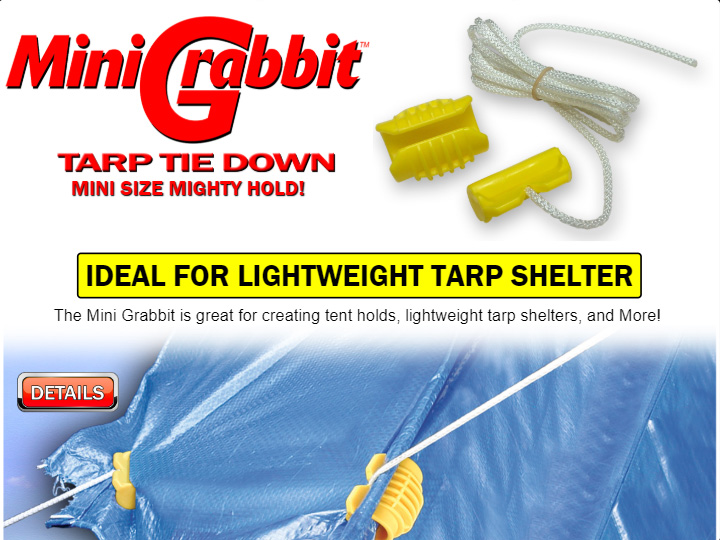
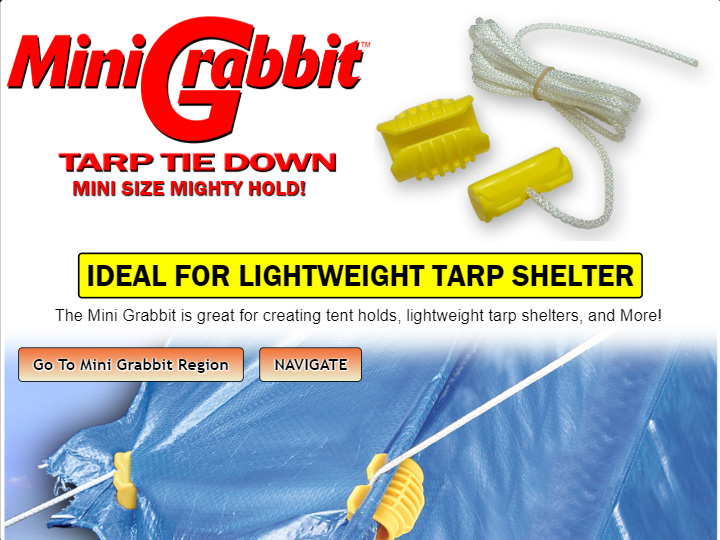
User content add/edit and add links to temporary 'not complete' page all for view02.

diff --git a/components/components00_03/tmpl_02/viewTmpl_02.html b/components/components00_03/tmpl_02/viewTmpl_02.html
@@ -1,26 +1,4 @@
-<style>
-.textStyle1
-{
-font-family: 'Franklin Gothic Medium', 'Franklin Gothic', 'ITC Franklin Gothic', Arial, sans-serif;   
-color:red;
-text-align:center; 
-}
-
-.fontFam
-{
-font-family: 'Franklin Gothic Medium', 'Franklin Gothic', 'ITC Franklin Gothic', Arial, sans-serif;     
-}
-
-.imageStyle1:hover
-{
-background-color:black; 
-border-radius:10px;
-box-shadow: 1px 1px 15px #CCEDF2, 1px -1px 15px #CCEDF2, -1px 1px 15px #CCEDF2, -1px -1px 15px #CCEDF2,
-            1px 1px 25px #EAE2BB, 1px -1px 25px #EAE2BB, -1px 1px 25px #EAE2BB, -1px -1px 25px #EAE2BB,
-            1px 1px 25px #EAE2BB, 1px -1px 25px #EAE2BB, -1px 1px 25px #EAE2BB, -1px -1px 25px #EAE2BB;
-}
-
-</style>
+<link rel="stylesheet" type="text/css" href="css/vn-templateStyle1.css">
 
 <div style="text-align:center;">    
  
@@ -79,29 +57,71 @@ box-shadow: 1px 1px 15px #CCEDF2, 1px -1px 15px #CCEDF2, -1px 1px 15px #CCEDF2, 
     </div>
 
 <!-- Response Section 4 ************************************************************************************************************************************************-->
-    <div style="position:relative;">
-        
-        <div style="position:absolute; 
-                    {{$ctrl.rs4positiontop}};   /* AR_75px_20px */
-                    /*top:20px; */
-                    left:2%; 
-                    z-index:2
-                    ">
-            <a href="https://www.tarptiedown.com/index-old.html"> 
-                <img src="https://tarptiedown.com/resources/ttd-vn-button3-300x120.png"
-                     alt="button" 
-                     title="EZ Grabbit applications, specs, prices, videos, etc."
-                     class="imageStyle1"
-                     style="{{$ctrl.rs4width1}};     /* AR_150_70 */
-                            ">  
-            </a>
-               
-        </div>
+    <div style="position:relative;
+                {{$ctrl.rs4fontsize1}};
+               ">
         
         <img    src="components/components00_03/tmpl_02/ttd-vn-mg-arc-1200x935-featherd-top.jpg" 
                 alt="EZ Grabbit Tarp Tie Down Presentation" 
-                title="Long Grabbit Presentation" 
+                title="Mini Grabbit Presentation" 
                 style="position:absolute; top:0px; left:0px; width:100%;"> 
+        
+        <div style="position:absolute;
+                    left:2%;
+                    {{$ctrl.rs4top1}};
+                    /*top:15px;*/
+                   ">
+            <a  href="https://www.tarptiedown.com/components/components00_03/tmpl_02/ttd-vn-mg-not-complete-msg.html"
+                class="btnStyle2"
+                style= "{{$ctrl.rs4padding1}};
+                        /*padding:5px 10px;*/
+                        text-decoration:none;
+                        font-weight:bold;
+                       "
+               > Go To Mini Grabbit Region
+                
+            </a>
+            <div class="btnStyle2" 
+                 ng-click="$ctrl.moreless2()"
+                 style="{{$ctrl.rs4padding1}};
+                        /*padding:5px 10px;*/
+                        {{$ctrl.rs4marginleft1}};
+                        /*margin-left:5px;*/
+                        font-weight:bold;
+                       ">
+                     {{$ctrl.morelessText2}}
+            </div>
+            <div class="textBoxStyle2 textStyle3"
+                 ng-show="$ctrl.display2">
+                 
+                <table  style= "width:100%;">
+                    <tr><td><u>SELECTION</u>&nbsp;&nbsp;&nbsp;&nbsp;&nbsp;&nbsp;</td>
+                        <td><u>DESTINATION</u>
+                            <span   class= "youAreHere2">
+                                &nbsp;&nbsp;you are here&nbsp;&nbsp;
+                            </span>
+                        </td>
+                    </tr>
+                    <tr class="topMenuNav">  <td class="tdStyle">TTD Intro          </td><td class="tdStyle">Tarp Tie Down Home & intro </td></tr>
+                    <tr class="topMenuNav">  <td class="tdStyle">Price/Buy          </td><td class="tdStyle">Product pricing and store  </td></tr>
+                    <tr class="topMenuNav">  <td class="tdStyle">Products           </td><td class="tdStyle">Tarp Tie Down products     </td></tr>
+                    <tr class="topMenuNav">  <td class="tdStyle">Reviews            </td><td class="tdStyle">Customer feedback          </td></tr>
+                    <tr class="hyperMenuNav"><td class="tdStyle">Button A  Thumb 1  </td><td class="tdStyle">Standard EZ Grabbit        </td></tr>
+                    <tr class="hyperMenuNav"><td class="tdStyle">Button A  Thumb 2  </td><td class="tdStyle">Long Grabbit               </td></tr>
+                    <tr class="youAreHere">  <td class="tdStyle">Button A  Thumb 3  </td><td class="tdStyle">Mini Grabbit               </td></tr>
+                    <tr class="hyperMenuNav"><td class="tdStyle">Button A  Thumb 4  </td><td class="tdStyle">EZ Adjust Rope Adjuster    </td></tr>
+                    <tr class="hyperMenuNav"><td class="tdStyle">Button B  Thumb 1  </td><td class="tdStyle">RockBuster Ground Stake    </td></tr>
+                    <tr class="hyperMenuNav"><td class="tdStyle">Button B  Thumb 2  </td><td class="tdStyle">Bag Grabbit Bag Handle     </td></tr>
+                    <tr class="hyperMenuNav"><td class="tdStyle">Button B  Thumb 3  </td><td class="tdStyle">The EZ Grabbit Keeper      </td></tr>
+                    <tr class="hyperMenuNav"><td class="tdStyle">Button B  Thumb 4  </td><td class="tdStyle">Carry/Duffle Bag           </td></tr>
+                    <tr class="hyperMenuNav"><td class="tdStyle">Button C  Thumb 1  </td><td class="tdStyle">Tent Poles                 </td></tr>
+                    <tr class="hyperMenuNav"><td class="tdStyle">Button C  Thumb 2  </td><td class="tdStyle">Classic EZ Grabbit         </td></tr>
+
+                </table>
+            </div>  
+        </div>
+        
+        
     </div>
 
 </div> 

diff --git a/components/components00_03/tmpl_02/ttd-vn-mg-not-complete-msg.html b/components/components00_03/tmpl_02/ttd-vn-mg-not-complete-msg.html
@@ -1,0 +1,60 @@
+<!DOCTYPE html>
+<html lang="en">
+  <head>
+    <meta charset="UTF-8">
+    <meta name="viewport" content="user-scalable=no, initial-scale=1, maximum-scale=1, minimum-scale=1">
+    <meta name="generator" content="NetBeans IDE 8.0.2">
+    <meta name="dcterms.created" content="Sunday, 05 August 2018">
+    <meta name="description" content="Mount Tarps to Surfaces, Overlap and Connect Tarps Together, Fold and Secure Multiple Tarp Layers, Attach Anywhere to Tarp and Pull from any Angle. Build your Tarp City with Grabbit Tarp Tie Downs!">
+    <meta name="keywords" content="EZ Grabbit, grabbit, grabit, grab-it, tarp fastener, tarp clip, tarp klip, tarp clamp, tarp holder, tarp tie down, tie down, mounting tarp, connecting tarp, tarp shelter, camp tarp, tent camping, canopy">
+    <meta name="author" content="Brian H.Combes">
+    <title>Not Complete Info</title>
+    <link rel="SHORTCUT ICON" href="https://www.tarptiedown.com/resources/ttd-vn-icon-ttd-256x256.ico"> 
+    <link rel="stylesheet" type="text/css" href="https://www.tarptiedown.com/css/vn-templateStyle1.css">
+    
+</head>
+<body>
+    <div style="max-width:1170px; margin-left:auto; margin-right:auto;"><br>
+        <img src="https://www.tarptiedown.com/resources/images/TTD Logo - 1200x225 - 08-07-2017.png" alt="Tarp Tie Down Logo Here" style="width:100%;">
+    </div>
+    <div style="max-width:1170px; margin-left:auto; margin-right:auto; font-size:1.0em;">	
+        <p id="p1" style="text-align:center;">
+            Our Mini Grabbit region is <span style="text-decoration:underline; font-weight:bold;">not</span> yet Complete 
+        </p>
+
+        <p style="text-align:center;">
+            Please click on the Mini Grabbit button to go to our Mini Grabbit store item. The product info there is helpful.<br><br>
+            <b>NOTE!</b><br>
+                <span style="font-family:Franklin Gothic Medium, Franklin Gothic, ITC Franklin Gothic, Arial, sans-serif; 
+                             color:blue;
+                            ">
+                    Full Mini Grabbit product info is on the way.
+                </span>
+                <br><br> 
+        </p>	
+
+        <div id="d1"
+             style="text-align:center">
+                <a href="https://www.tarptiedown.com/TTD-Store/index.php?rt=product/category&path=1_3&session_id=6j7rvh11bja994asmiaq72uj26"
+                   class="btnStyle2"
+                   style="text-decoration:none;">
+                        Mini Grabbit Tarp Tie Down Store Item
+                </a><br><br>
+                <a href="https://www.tarptiedown.com/#/view02" 
+                   class="btnStyle2"
+                   style="text-decoration:none;">
+                        Return
+                </a>
+        </div> 
+    </div>
+	
+<script>
+   
+    var viewWidth = window.screen.availWidth;
+    
+    document.getElementById("p1").style.fontSize = ((0.00185)*(viewWidth)+0.33333) + "em";
+    document.getElementById("d1").style.fontSize = ((0.00062)*(viewWidth)+0.77778) + "em";
+
+</script>    
+</body>
+</html>

diff --git a/components/components00_03/components00_03.js b/components/components00_03/components00_03.js
@@ -121,9 +121,24 @@ angular.module('viewNav')
             self02.rs3fontsize3 = "font-size:" + ((0.00093)*(viewWidth)+0.41667) + "em";
             
             // Response Section 4
-            self02.rs4width1 = "width:" + ((0.09877)*(viewWidth)+34.44444) + "px";      // AR_150_70 
-            self02.rs4positiontop = "top:" + ((0.06790)*(viewWidth)-4.44444) + "px";   // AR_75px_20px    
-            // self02.rs4fontsize4 = "font-size:" + ((0.00068)*(viewWidth)+0.45556) + "em";     
+            self02.rs4fontsize1 = "font-size:" + ((0.00095)*(viewWidth)+0.38778) + "em";        /* AR_1.50_0.73 */
+            self02.rs4top1 = "top:" + ((0.01852)*(viewWidth)+8.33333) + "px";                   /* AR_30.00_15.00 */      
+            self02.rs4marginleft1= "margin-left:" + ((0.01852)*(viewWidth)-1.66667) + "px";     /* AR_20.00_5.00 */
+            self02.rs4padding1 = "padding:" + ((0.00617)*(viewWidth)+2.77778) + "px " + ((0.01235)*(viewWidth)+5.55556) + "px";    /* AR_10.00_5.00 */ /* AR_20.01_10.00 */
+            
+            // Sets mode of the "NAVIGATE" button
+            self02.display2 = false;
+            self02.morelessText2 = "NAVIGATE";
+            self02.moreless2 = function(){
+                if(self02.morelessText2 === "NAVIGATE"){
+                    self02.morelessText2 = "HIDE NAVIGATE";
+                    self02.display2 = true;
+                } 
+                else {
+                    self02.morelessText2 = "NAVIGATE";
+                    self02.display2 = false;
+                }
+            };     
             
             compFactory.logView(02);
         }]    

diff --git a/controller-client.js b/controller-client.js
@@ -289,7 +289,7 @@ angular.module('viewNav')
 //***********************************************************************************************************************************************************            
 // $state.go('some-view') loads the desired view as the default view upon load               
         var stateGo = (function(){    
-            $state.go('view01');
+            $state.go('view02');
 /*             
                 // Use this setTimeout if intializing with a template. If you initialize with a template only the first thumbnail group will show properly. If
                 // it's a template (view04 and up) then the proper thumbnail group won't show unless you call the stateHistory method and send it the proper parameters
